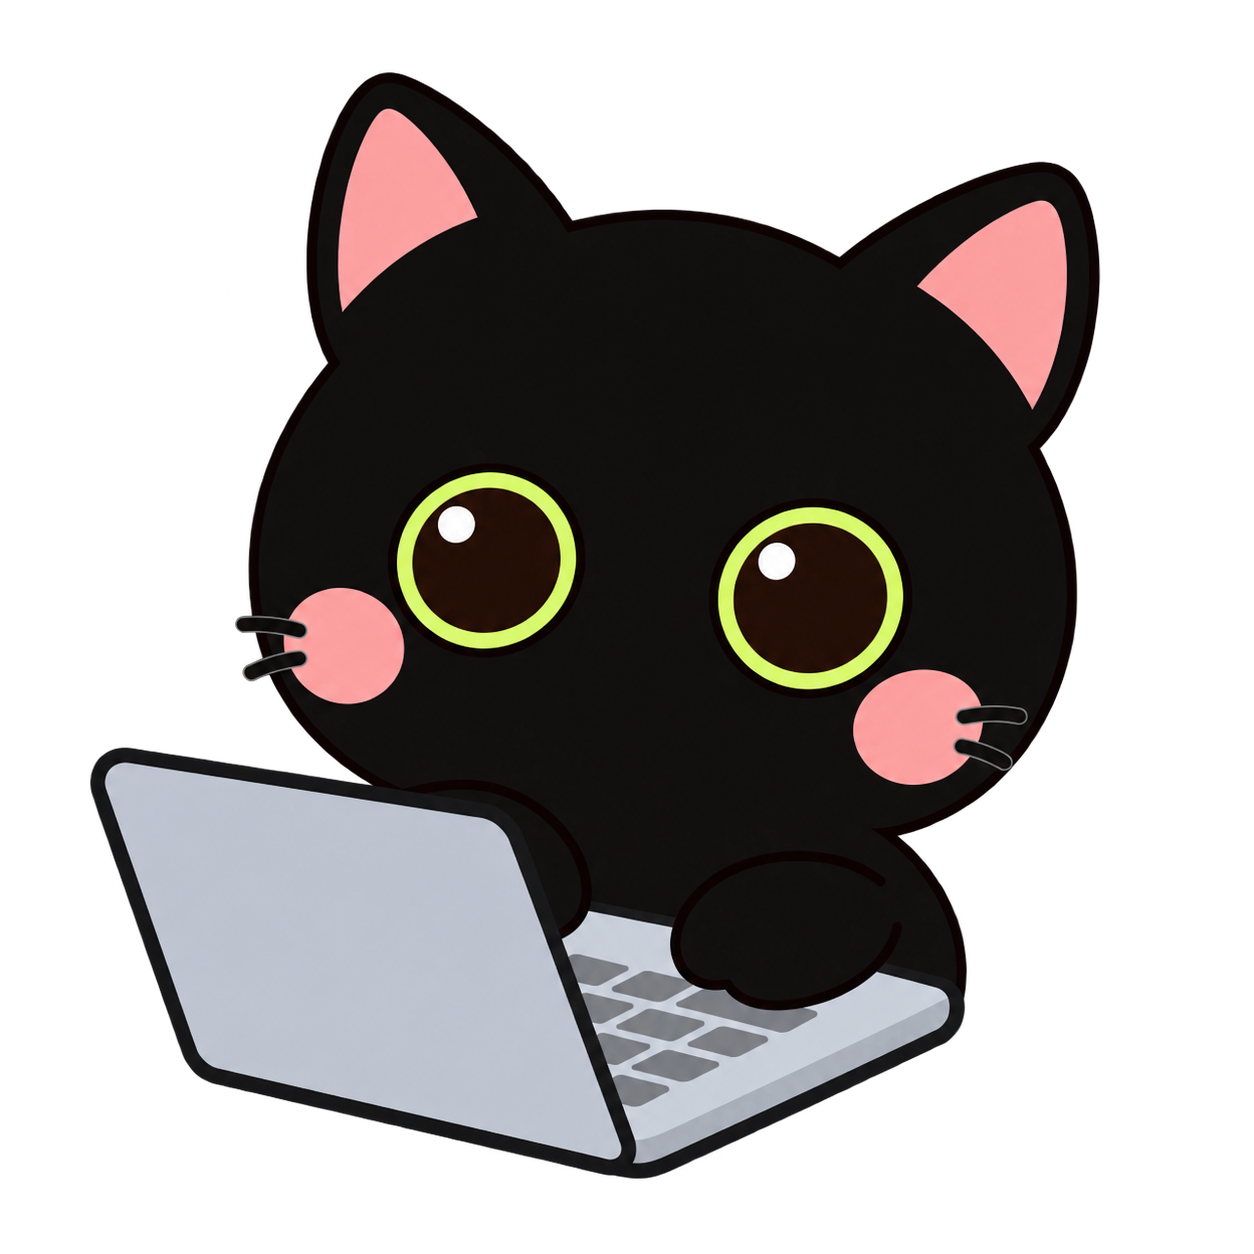
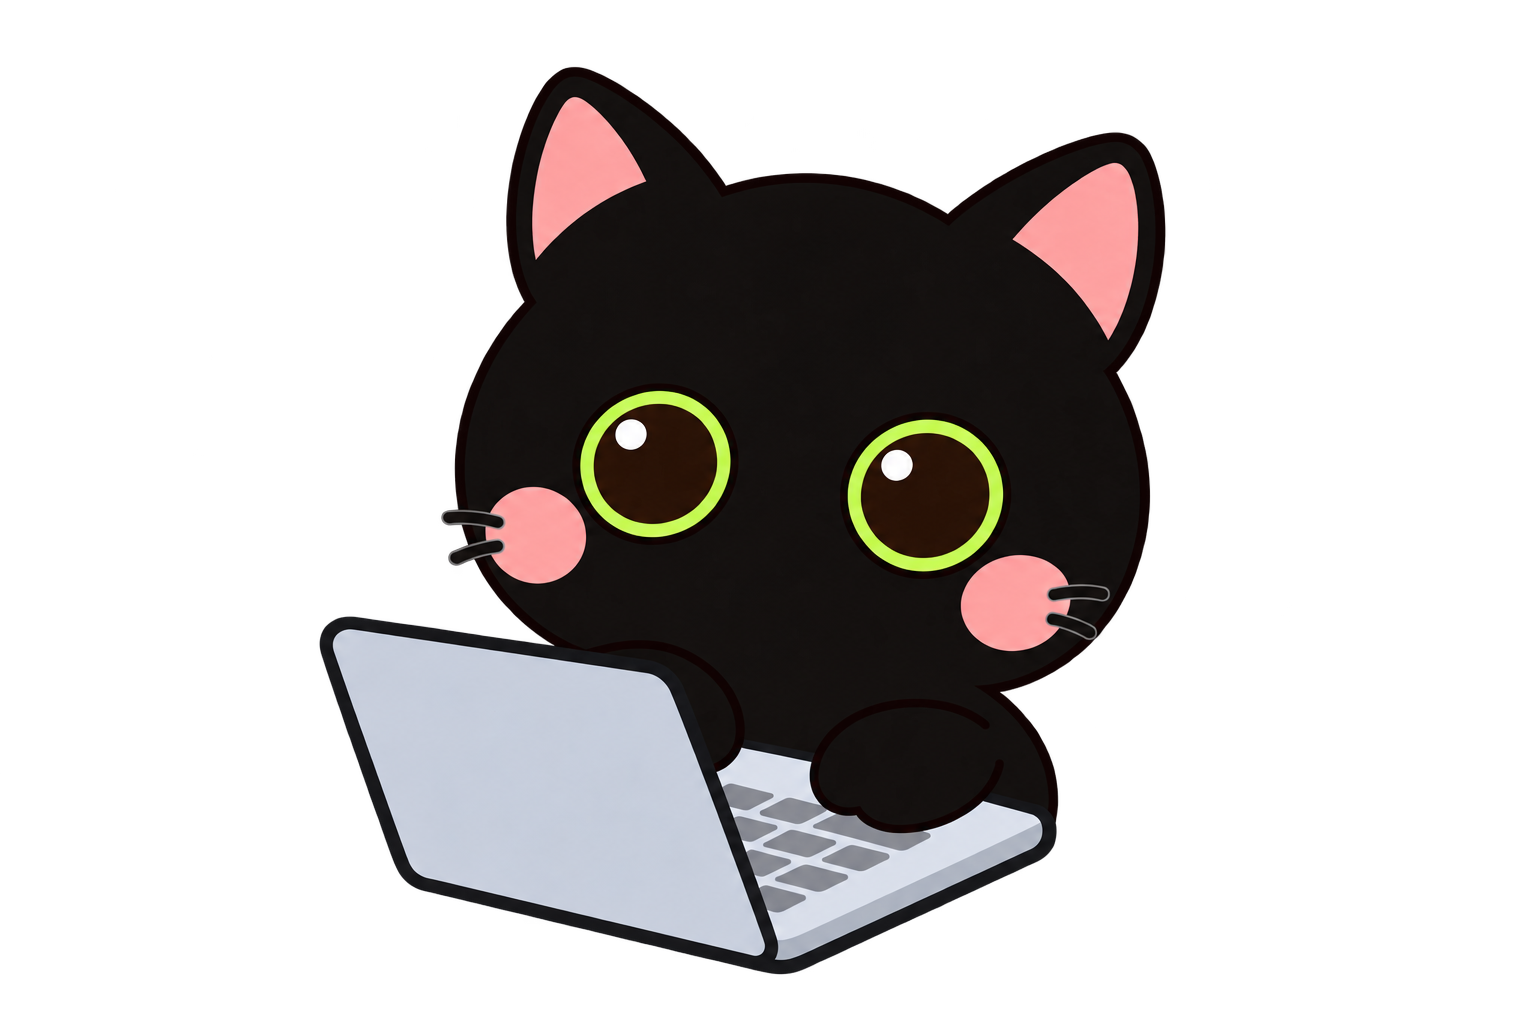
Adjust black cat home artwork and add placement controls

Changed region(s): [[0.0622, 0.0625, 0.9019, 0.9688]]

diff --git a/stories/assets/CharacterPlacement.stories.tsx b/stories/assets/CharacterPlacement.stories.tsx
@@ -9,8 +9,8 @@ import { characterIds, type CharacterId } from '../../src/lib/characters';
 import { colors, typography } from '../../src/design/theme';
 import { LeaveLayout } from '../screens/LeaveLayout';
 
-type Props = { character: CharacterId; width: number; height: number; screen: 'home' | 'focus' | 'leave' | 'comparison'; guides: boolean };
-function Preview({ character, width, height, screen, guides }: Props) {
+type Props = { character: CharacterId; width: number; height: number; screen: 'home' | 'focus' | 'leave' | 'comparison'; guides: boolean; blackcatHomeY: number };
+function Preview({ character, width, height, screen, guides, blackcatHomeY }: Props) {
   const [selected, setSelected] = useState(character);
   const [showAchievement, setShowAchievement] = useState(false);
   const [seats, setSeats] = useState<CharacterId[]>(['bunny', 'maltese', 'pomeranian', 'blackcat']);
@@ -27,7 +27,7 @@ function Preview({ character, width, height, screen, guides }: Props) {
           {current === 'home' ? <>
             <View style={{ marginHorizontal: 24, minHeight: 268, paddingTop: 32, gap: 20 }}><Text style={{ ...typography.body, color: colors.text }}>오늘 공부한 시간</Text><Text style={{ ...typography.metric, fontSize: 54, color: colors.text }}>01:20:15</Text><Text style={{ color: colors.secondary }}>오늘 목표 3시간</Text></View>
             <View onLayout={({ nativeEvent }) => setScene(nativeEvent.layout)} style={{ flex: 1, minHeight: 360, overflow: 'hidden', paddingBottom: 16 }}>
-              <HomeArtwork character={selected} width={scene.width} height={scene.height} />
+              <HomeArtwork character={selected} width={scene.width} height={scene.height} placementOverride={selected === 'blackcat' ? { y: blackcatHomeY } : undefined} />
               {guides && <View pointerEvents="none" style={{ position: 'absolute', left: 0, right: 0, top: (scene.height - 1024 * Math.max(scene.width / 1536, scene.height / 1024)) / 2 + 785 * Math.max(scene.width / 1536, scene.height / 1024), borderTopWidth: 1, borderColor: '#E15353', borderStyle: 'dashed' }} />}
               <View style={{ flex: 1, minHeight: 284 }} /><View style={{ marginHorizontal: 16, minHeight: 52, backgroundColor: colors.surface, borderRadius: 16, padding: 16 }}><Text style={{ color: colors.secondary }}>지금 3명이 공부 중이에요</Text></View>
             </View><View style={{ height: 104 }} />
@@ -40,8 +40,8 @@ function Preview({ character, width, height, screen, guides }: Props) {
 const meta = {
   title: '에셋 확인/캐릭터 화면 배치', component: Preview,
   parameters: { screenLayout: true, layout: 'fullscreen', docs: { description: { component: '홈은 실제 앱의 HomeArtwork, 집중은 FocusView, 연차는 LeaveView를 공유합니다. 서버에 연결하거나 프로필을 저장하지 않습니다. 홈의 주변 UI는 배치 확인용 샘플입니다. 정렬선은 홈 배경의 책상 기준선입니다.' } } },
-  args: { character: 'blackcat', width: 390, height: 844, screen: 'comparison', guides: false },
-  argTypes: { character: { control: 'select', options: characterIds }, screen: { control: 'select', options: ['home', 'focus', 'leave', 'comparison'] }, width: { control: { type: 'range', min: 320, max: 430, step: 1 } }, height: { control: { type: 'range', min: 640, max: 932, step: 1 } }, guides: { control: 'boolean' } },
+  args: { character: 'blackcat', width: 390, height: 844, screen: 'comparison', guides: false, blackcatHomeY: 910 },
+  argTypes: { blackcatHomeY: { name: '검은고양이 높이 (Y)', description: '클수록 위로, 작을수록 아래로 이동합니다. 미리보기 전용이며 앱에 자동 저장되지 않습니다.', control: { type: 'number', min: 700, max: 1100, step: 5 } }, character: { control: 'select', options: characterIds }, screen: { control: 'select', options: ['home', 'focus', 'leave', 'comparison'] }, width: { control: { type: 'range', min: 320, max: 430, step: 1 } }, height: { control: { type: 'range', min: 640, max: 932, step: 1 } }, guides: { control: 'boolean' } },
   render: args => <Preview key={JSON.stringify(args)} {...args} />,
 } satisfies Meta<typeof Preview>;
 export default meta;
@@ -63,4 +63,18 @@ export const LeaveAllCharacters: Story = {
   name: '연차 · 전체 캐릭터 잘림 확인',
   parameters: { controls: { disable: true } },
   render: () => <View style={{ flexDirection: 'row', flexWrap: 'wrap', justifyContent: 'center', gap: 16 }}>{characterIds.map(character => <View key={character} style={{ gap: 8 }}><Text style={{ ...typography.label, color: colors.text }}>{characters[character].label} · 320px</Text><LeaveLayout character={character} width={320} height={740} /></View>)}</View>,
+};
+
+export const BlackcatHeight: Story = {
+  name: '검은고양이 높이 조절',
+  args: { character: 'blackcat', screen: 'home', guides: false },
+  parameters: { controls: { include: ['검은고양이 높이 (Y)'] } },
+  render: ({ blackcatHomeY }) => <View style={{ alignItems: 'center', gap: 8, padding: 16 }}>
+    <Text style={{ ...typography.label, color: colors.text }}>검은고양이 높이: {blackcatHomeY}</Text>
+    <Text style={{ ...typography.caption, color: colors.secondary }}>아래 Controls에서 Y를 높이면 위로, 낮추면 아래로 이동해요.</Text>
+    <Text style={{ ...typography.caption, color: colors.secondary }}>미리보기 전용 · 마음에 드는 Y 값을 알려주면 앱에도 반영할게요.</Text>
+    <View style={{ width: 390, height: 360, overflow: 'hidden', borderRadius: 16 }}>
+      <HomeArtwork character="blackcat" width={390} height={360} placementOverride={{ y: blackcatHomeY }} />
+    </View>
+  </View>,
 };

diff --git a/src/features/study/HomeArtwork.tsx b/src/features/study/HomeArtwork.tsx
@@ -12,16 +12,16 @@ const placements: Record<CharacterId, { scale: number; x: number; y: number }> =
   cat: { scale: .60, x: 768, y: 934 },
   maltese: { scale: .55, x: 768, y: 930 },
   pomeranian: { scale: .60, x: 768, y: 900 },
-  blackcat: { scale: .60, x: 768, y: 913 },
+  blackcat: { scale: .60, x: 768, y: 910 },
 };
 
 /** Shared by the app and the asset placement preview. */
-export function HomeArtwork({ character, activeSkinId, width, height }: { character: CharacterId; activeSkinId?: string | null; width: number; height: number }) {
+export function HomeArtwork({ character, activeSkinId, width, height, placementOverride }: { character: CharacterId; activeSkinId?: string | null; width: number; height: number; placementOverride?: Partial<{ scale: number; x: number; y: number }> }) {
   const scale = Math.max(width / 1536, height / 1024);
   const left = (width - 1536 * scale) / 2;
   const top = (height - 1024 * scale) / 2;
   const artwork = resolveCharacterArtwork(character, activeSkinId);
-  const placement = artwork.homePlacement ?? placements[character];
+  const placement = { ...(artwork.homePlacement ?? placements[character]), ...placementOverride };
   return <>
     <Image fadeDuration={0} source={background} resizeMode="contain" style={{ position: 'absolute', left, top, width: 1536 * scale, height: 1024 * scale }} accessibilityLabel="햇살이 드는 공부방" />
     <Image fadeDuration={0} source={artwork.home} resizeMode="contain" style={{ position: 'absolute', left: left + (800 - placement.x * placement.scale) * scale, top: top + (785 - placement.y * placement.scale) * scale - 2, width: 1536 * placement.scale * scale, height: 1024 * placement.scale * scale }} accessibilityLabel={`${artwork.label} 홈 캐릭터`} />
